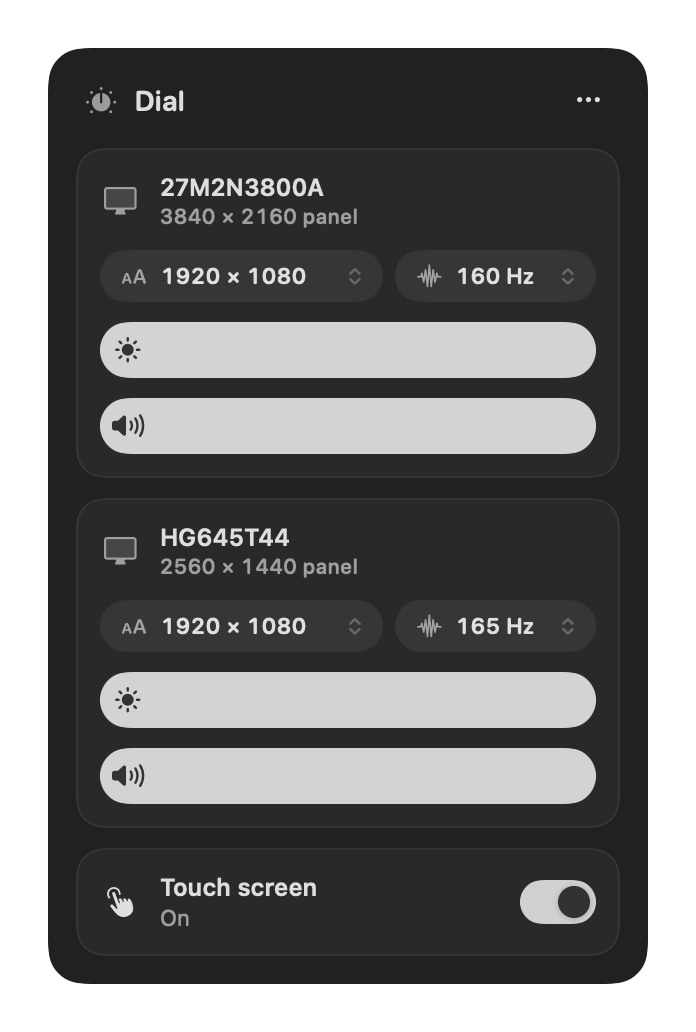
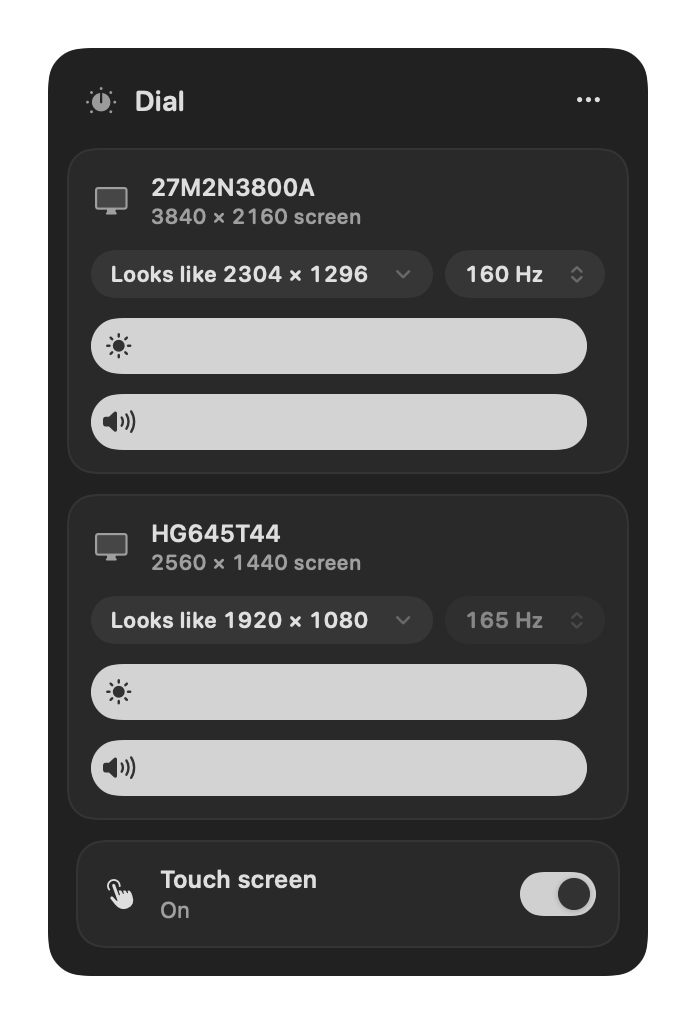
Dial 0.2.1: keep the Accessibility grant, size list, log file
- Turning touch off no longer removes Dial from Accessibility: the stale
  entry from an older build is cleared once per build (keyed on the code
  signature hash), then Dial adds itself back to the list.
- Screen size is a short scrolling list instead of a menu: every
  "looks like" size once (sharp preferred), checkmark on the current one,
  Native tag on the full-resolution size.
- Dial writes what it does to ~/Library/Logs/Dial.log; the bug template
  asks for it.

diff --git a/Sources/Dial/Panel.swift b/Sources/Dial/Panel.swift
@@ -136,60 +136,116 @@ private struct TouchCard: View {
     }
 }
 
-/// Resolution and refresh-rate pickers, styled as two pills.
+/// "Looks like" size, tap to open a short scrolling list of sizes; refresh rate as a small pill.
 private struct ModeRow: View {
     let display: ExternalDisplay
+    private var open: Bool { display.showingSizes }
 
     var body: some View {
-        HStack(spacing: 6) {
-            Menu {
-                let sizes = display.resolutions
-                Section("Sharp text") { buttons(sizes.filter(\.hiDPI)) }
-                Section("Other sizes") { buttons(sizes.filter { !$0.hiDPI }) }
-            } label: {
-                Pill(symbol: "textformat.size", text: display.current?.sizeLabel ?? "–")
-            }
-            .menuStyle(.button).buttonStyle(.plain).menuIndicator(.hidden)
-
-            Menu {
-                ForEach(display.refreshRates) { mode in
-                    Button { display.select(refresh: mode) } label: {
-                        if mode.hz == display.current?.hz { Label("\(mode.hz) Hz", systemImage: "checkmark") } else { Text("\(mode.hz) Hz") }
+        VStack(alignment: .leading, spacing: 6) {
+            HStack(spacing: 6) {
+                Button { withAnimation(.snappy(duration: 0.2)) { display.showingSizes.toggle() } } label: {
+                    HStack(spacing: 6) {
+                        Text(display.current.map { "Looks like \($0.sizeLabel)" } ?? "–")
+                            .font(.system(size: 11, weight: .semibold, design: .rounded))
+                            .monospacedDigit()
+                            .fixedSize()
+                        Spacer(minLength: 0)
+                        Image(systemName: "chevron.down")
+                            .font(.system(size: 8, weight: .bold))
+                            .foregroundStyle(.tertiary)
+                            .rotationEffect(.degrees(open ? 180 : 0))
                     }
+                    .padding(.horizontal, 10)
+                    .frame(height: 24)
+                    .background(.primary.opacity(0.07), in: Capsule())
+                    .contentShape(Capsule())
                 }
-            } label: {
-                Pill(symbol: "waveform.path", text: display.current.map { "\($0.hz) Hz" } ?? "–")
+                .buttonStyle(.plain)
+                .accessibilityLabel("Screen size")
+                .accessibilityValue(display.current?.sizeLabel ?? "")
+                Menu {
+                    ForEach(display.refreshRates) { mode in
+                        Button { display.select(refresh: mode) } label: {
+                            if mode.hz == display.current?.hz { Label("\(mode.hz) Hz", systemImage: "checkmark") } else { Text("\(mode.hz) Hz") }
+                        }
+                    }
+                } label: {
+                    Pill(text: display.current.map { "\($0.hz) Hz" } ?? "–")
+                }
+                .menuStyle(.button).buttonStyle(.plain).menuIndicator(.hidden)
+                .fixedSize()
+                .disabled(display.refreshRates.count < 2)
             }
-            .menuStyle(.button).buttonStyle(.plain).menuIndicator(.hidden)
-            .fixedSize()
-        }
-    }
-
-    @ViewBuilder
-    private func buttons(_ modes: [DisplayMode]) -> some View {
-        ForEach(modes) { mode in
-            Button { display.select(size: mode) } label: {
-                let title = mode.sizeLabel + (mode.isNative ? "  (full size)" : "")
-                if mode.sizeKey == display.current?.sizeKey { Label(title, systemImage: "checkmark") } else { Text(title) }
-            }
+            if open { SizeList(display: display).transition(.opacity) }
         }
     }
 }
 
+/// Every size the screen offers, in a box that scrolls instead of growing.
+private struct SizeList: View {
+    let display: ExternalDisplay
+
+    var body: some View {
+        ScrollViewReader { proxy in
+            ScrollView {
+                VStack(spacing: 1) {
+                    ForEach(display.resolutions) { mode in
+                        let chosen = mode.sizeLabel == display.current?.sizeLabel
+                        Button { display.select(size: mode) } label: {
+                            HStack(spacing: 6) {
+                                Image(systemName: "checkmark")
+                                    .font(.system(size: 9, weight: .bold))
+                                    .opacity(chosen ? 1 : 0)
+                                    .frame(width: 12)
+                                Text(mode.sizeLabel)
+                                    .font(.system(size: 11.5, weight: chosen ? .semibold : .regular, design: .rounded))
+                                    .monospacedDigit()
+                                Spacer(minLength: 0)
+                                if mode.sizeLabel == display.nativeSize { Tag(text: "Native") }
+                            }
+                            .padding(.horizontal, 8)
+                            .frame(height: 24)
+                            .background(chosen ? AnyShapeStyle(.primary.opacity(0.08)) : AnyShapeStyle(.clear), in: RoundedRectangle(cornerRadius: 6))
+                            .contentShape(Rectangle())
+                        }
+                        .buttonStyle(.plain)
+                        .id(mode.sizeLabel)
+                    }
+                }
+                .padding(3)
+            }
+            .frame(height: 130)
+            .background(.primary.opacity(0.04), in: RoundedRectangle(cornerRadius: 9))
+            .onAppear { proxy.scrollTo(display.current?.sizeLabel, anchor: .center) }
+        }
+    }
+}
+
+private struct Tag: View {
+    let text: String
+
+    var body: some View {
+        Text(text)
+            .font(.system(size: 9, weight: .semibold))
+            .foregroundStyle(.secondary)
+            .padding(.horizontal, 5)
+            .padding(.vertical, 1.5)
+            .background(.primary.opacity(0.07), in: Capsule())
+    }
+}
+
 private struct Pill: View {
-    let symbol: String
     let text: String
 
     var body: some View {
         HStack(spacing: 6) {
-            Image(systemName: symbol).font(.system(size: 10, weight: .semibold)).foregroundStyle(.secondary)
             Text(text).font(.system(size: 11, weight: .semibold, design: .rounded)).monospacedDigit()
             Spacer(minLength: 0)
             Image(systemName: "chevron.up.chevron.down").font(.system(size: 8, weight: .bold)).foregroundStyle(.tertiary)
         }
         .padding(.horizontal, 10)
-        .frame(height: 26)
-        .frame(maxWidth: .infinity)
+        .frame(height: 24)
         .background(.primary.opacity(0.07), in: Capsule())
         .contentShape(Capsule())
     }

diff --git a/Sources/Dial/Access.swift b/Sources/Dial/Access.swift
@@ -1,4 +1,5 @@
 import AppKit
+import Security
 import Observation
 
 /// Dial's single permission: Accessibility. It lets Dial catch the brightness and volume keys
@@ -13,6 +14,7 @@ final class Access {
     @ObservationIgnored private var poll: Timer?
 
     private init() {
+        log("launch: accessibility \(granted ? "granted" : "not granted")")
         if !granted { watch() }
     }
 
@@ -24,15 +26,36 @@ final class Access {
     /// Opens the Accessibility list in System Settings, where the user turns Dial on.
     func ask() {
         // An entry left by an older Dial build stays switched on in Settings but no longer applies
-        // to this copy, so clear Dial's own entry and add it back fresh before sending the user there.
-        let reset = Process()
-        reset.executableURL = URL(fileURLWithPath: "/usr/bin/tccutil")
-        reset.arguments = ["reset", "Accessibility", Bundle.main.bundleIdentifier ?? "io.github.eroyun.dial"]
-        try? reset.run()
-        reset.waitUntilExit()
-        AXIsProcessTrustedWithOptions([kAXTrustedCheckOptionPrompt.takeUnretainedValue() as String: false] as CFDictionary)
+        // to this copy. Clear it once per build, never again: clearing on every ask removed the
+        // entry the user had just turned on.
+        let build = Self.signature()
+        if UserDefaults.standard.string(forKey: "accessClearedFor") != build {
+            let reset = Process()
+            reset.executableURL = URL(fileURLWithPath: "/usr/bin/tccutil")
+            reset.arguments = ["reset", "Accessibility", Bundle.main.bundleIdentifier ?? "io.github.eroyun.dial"]
+            try? reset.run()
+            reset.waitUntilExit()
+            UserDefaults.standard.set(build, forKey: "accessClearedFor")
+            log("cleared old accessibility entry (exit \(reset.terminationStatus))")
+        }
+        // Adds Dial to the list so the user only has to flip its switch.
+        AXIsProcessTrustedWithOptions([kAXTrustedCheckOptionPrompt.takeUnretainedValue() as String: true] as CFDictionary)
         NSWorkspace.shared.open(URL(string: "x-apple.systempreferences:com.apple.preference.security?Privacy_Accessibility")!)
+        log("asked for accessibility")
         watch()
+    }
+
+    /// The code signature hash macOS ties the permission to; it changes with every build.
+    private static func signature() -> String {
+        var code: SecCode?
+        var staticCode: SecStaticCode?
+        var info: CFDictionary?
+        guard SecCodeCopySelf([], &code) == errSecSuccess, let code,
+              SecCodeCopyStaticCode(code, [], &staticCode) == errSecSuccess, let staticCode,
+              SecCodeCopySigningInformation(staticCode, [], &info) == errSecSuccess,
+              let hash = (info as? [String: Any])?[kSecCodeInfoUnique as String] as? Data
+        else { return "unknown" }
+        return hash.map { String(format: "%02x", $0) }.joined()
     }
 
     private func watch() {
@@ -42,6 +65,7 @@ final class Access {
             self.poll?.invalidate()
             self.poll = nil
             self.granted = true
+            log("accessibility granted")
             let waiters = self.waiters
             self.waiters = []
             waiters.forEach { $0() }

diff --git a/Sources/Dial/Displays.swift b/Sources/Dial/Displays.swift
@@ -6,6 +6,8 @@ final class ExternalDisplay: Identifiable {
     let id: CGDirectDisplayID
     let name: String
     var detail: String = ""
+    /// Whether the size list is open in the panel.
+    var showingSizes = false
     /// 0...1, nil until read (or unsupported).
     var brightness: Double?
     var volume: Double?
@@ -13,11 +15,17 @@ final class ExternalDisplay: Identifiable {
     private(set) var modes: [DisplayMode] = []
     private(set) var current: DisplayMode?
 
-    /// Distinct "looks like" sizes, largest first.
+    /// Distinct "looks like" sizes, largest first. When a size comes both sharp (HiDPI) and
+    /// blurry, only the sharp one is offered.
     var resolutions: [DisplayMode] {
         var seen = Set<String>()
-        return modes.filter { seen.insert($0.sizeKey).inserted }
+        return modes
+            .sorted { ($0.width, $0.height, $0.hiDPI ? 1 : 0) > ($1.width, $1.height, $1.hiDPI ? 1 : 0) }
+            .filter { seen.insert($0.sizeLabel).inserted }
     }
+
+    /// The screen's real pixel size, e.g. 3840 × 2160.
+    private(set) var nativeSize = ""
 
     /// Refresh rates available at the current size.
     var refreshRates: [DisplayMode] {
@@ -47,7 +55,8 @@ final class ExternalDisplay: Identifiable {
         let now = DisplayMode(mode)
         current = modes.first { $0.sizeKey == now.sizeKey && $0.hz == now.hz } ?? now
         let native = modes.first(where: \.isNative)?.mode ?? mode
-        detail = "\(native.pixelWidth) × \(native.pixelHeight) panel"
+        nativeSize = "\(native.pixelWidth) × \(native.pixelHeight)"
+        detail = "\(nativeSize) screen"
     }
 
     /// Switch size, keeping the refresh rate when the new size offers it.

diff --git a/Sources/Dial/Touch.swift b/Sources/Dial/Touch.swift
@@ -36,6 +36,7 @@ final class TouchController {
     }
 
     func setEnabled(_ on: Bool) {
+        log("touch switch -> \(on ? "on" : "off")")
         guard on || Access.shared.granted else {
             waitingForPermission = true
             Access.shared.ask()
@@ -68,11 +69,14 @@ final class TouchController {
     private func apply() {
         release()
         guard !enabled else { return }
-        for device in interfaces() where IOHIDDeviceOpen(device, IOOptionBits(kIOHIDOptionsTypeSeizeDevice)) == kIOReturnSuccess {
-            seized.append(device)
+        for device in interfaces() {
+            let result = IOHIDDeviceOpen(device, IOOptionBits(kIOHIDOptionsTypeSeizeDevice))
+            if result == kIOReturnSuccess { seized.append(device) }
+            log("touch off: seize 0x\(String(UInt32(bitPattern: result), radix: 16))")
         }
         senders = senderIDs()
         startFilter()
+        log("touch off: blocking \(senders.map { "0x" + String($0, radix: 16) }), filter \(tap != nil ? "running" : "FAILED")")
     }
 
     private func release() {

diff --git a/Sources/Dial/Log.swift b/Sources/Dial/Log.swift
@@ -1,0 +1,14 @@
+import Foundation
+
+/// Appends a line to ~/Library/Logs/Dial.log, so bug reports can say what Dial actually did.
+func log(_ message: String) {
+    let line = "\(ISO8601DateFormatter().string(from: Date())) \(message)\n"
+    let url = FileManager.default.homeDirectoryForCurrentUser.appendingPathComponent("Library/Logs/Dial.log")
+    if let handle = try? FileHandle(forWritingTo: url) {
+        handle.seekToEndOfFile()
+        handle.write(Data(line.utf8))
+        try? handle.close()
+    } else {
+        try? Data(line.utf8).write(to: url)
+    }
+}

diff --git a/README.md b/README.md
@@ -33,7 +33,7 @@
 
 - ☀ **Brightness** — changes the monitor's real backlight, not a dark overlay.
 - 🔊 **Volume** — for monitors with speakers.
-- 🔍 **Screen size** — make everything bigger or smaller, and pick the refresh rate.
+- 🔍 **Screen size** — see your screen's real resolution, pick how big everything looks from a short list, and choose the refresh rate.
 - ⌨ **Keyboard keys** — your Mac's brightness and volume keys work on the monitor too.
 - ✋ **Touch on/off** — turn a touch screen off so a stray hand can't click things.
 
@@ -74,7 +74,7 @@ No. Apple doesn't let apps add external-monitor sliders to Control Center, so Di
 Some monitors, docks and adapters (especially DisplayLink) block the signal Dial uses. Try connecting the monitor straight to the Mac with USB-C or HDMI.
 
 **I want more screen sizes than the list shows.**
-Dial shows every size macOS offers for your monitor. Adding new sizes needs deeper system changes; [BetterDisplay](https://github.com/waydabber/BetterDisplay) does that.
+Dial shows every size macOS offers for your monitor (when a size comes both sharp and blurry, only the sharp one). Adding new sizes needs deeper system changes; [BetterDisplay](https://github.com/waydabber/BetterDisplay) does that.
 
 **How do I make Dial start with my Mac?**
 Click **⋯** in the panel and choose **Launch at login**.
